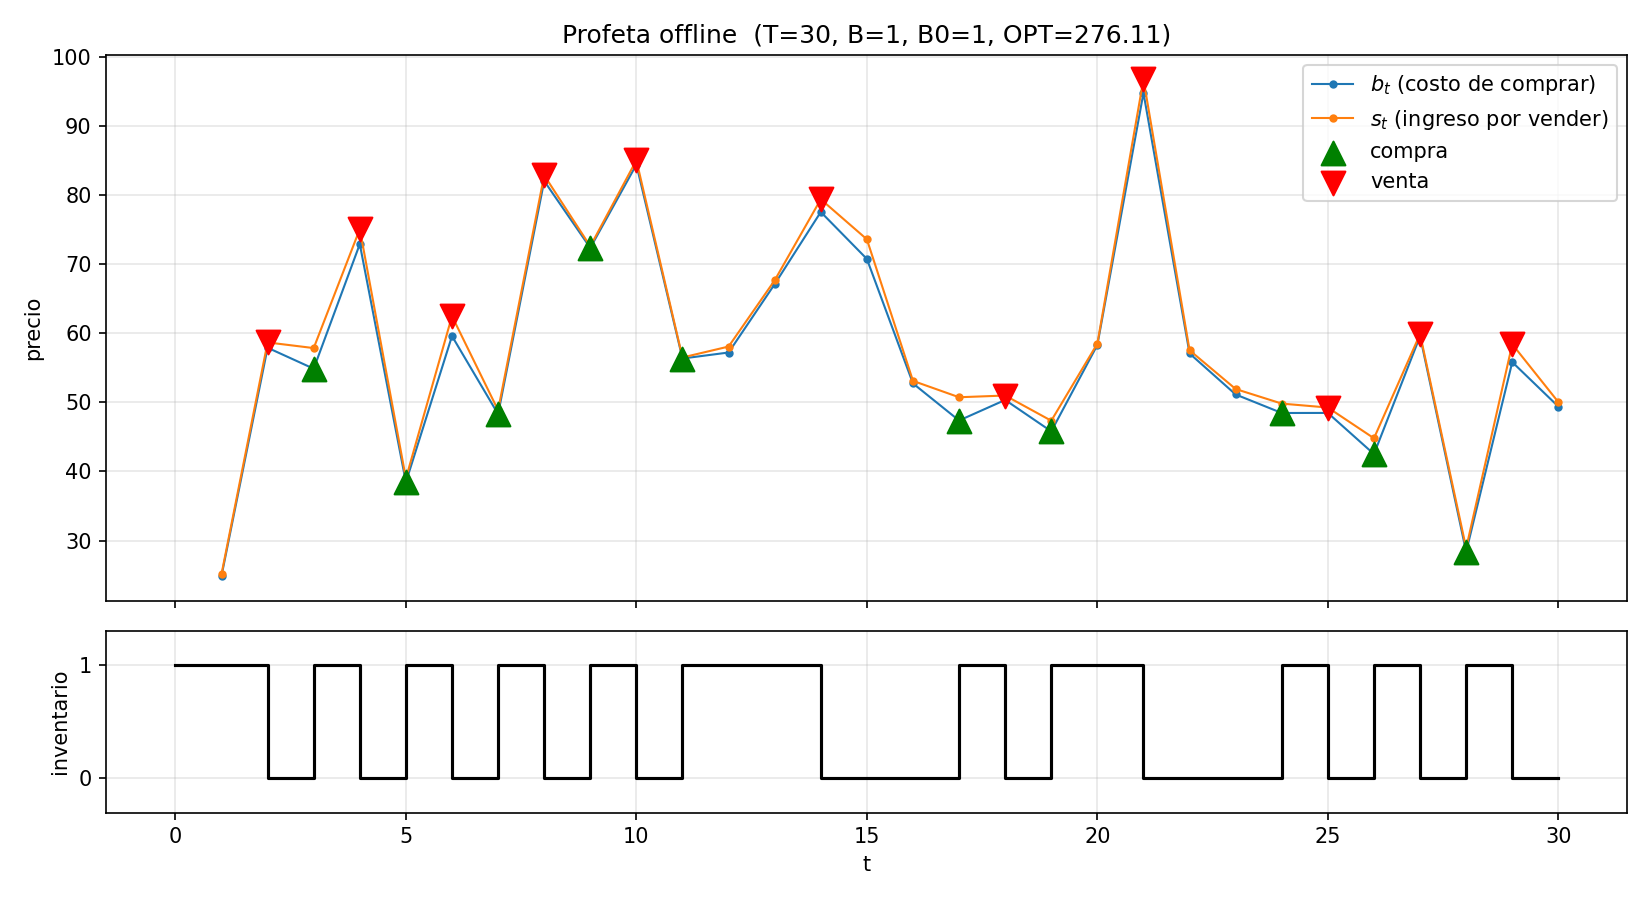
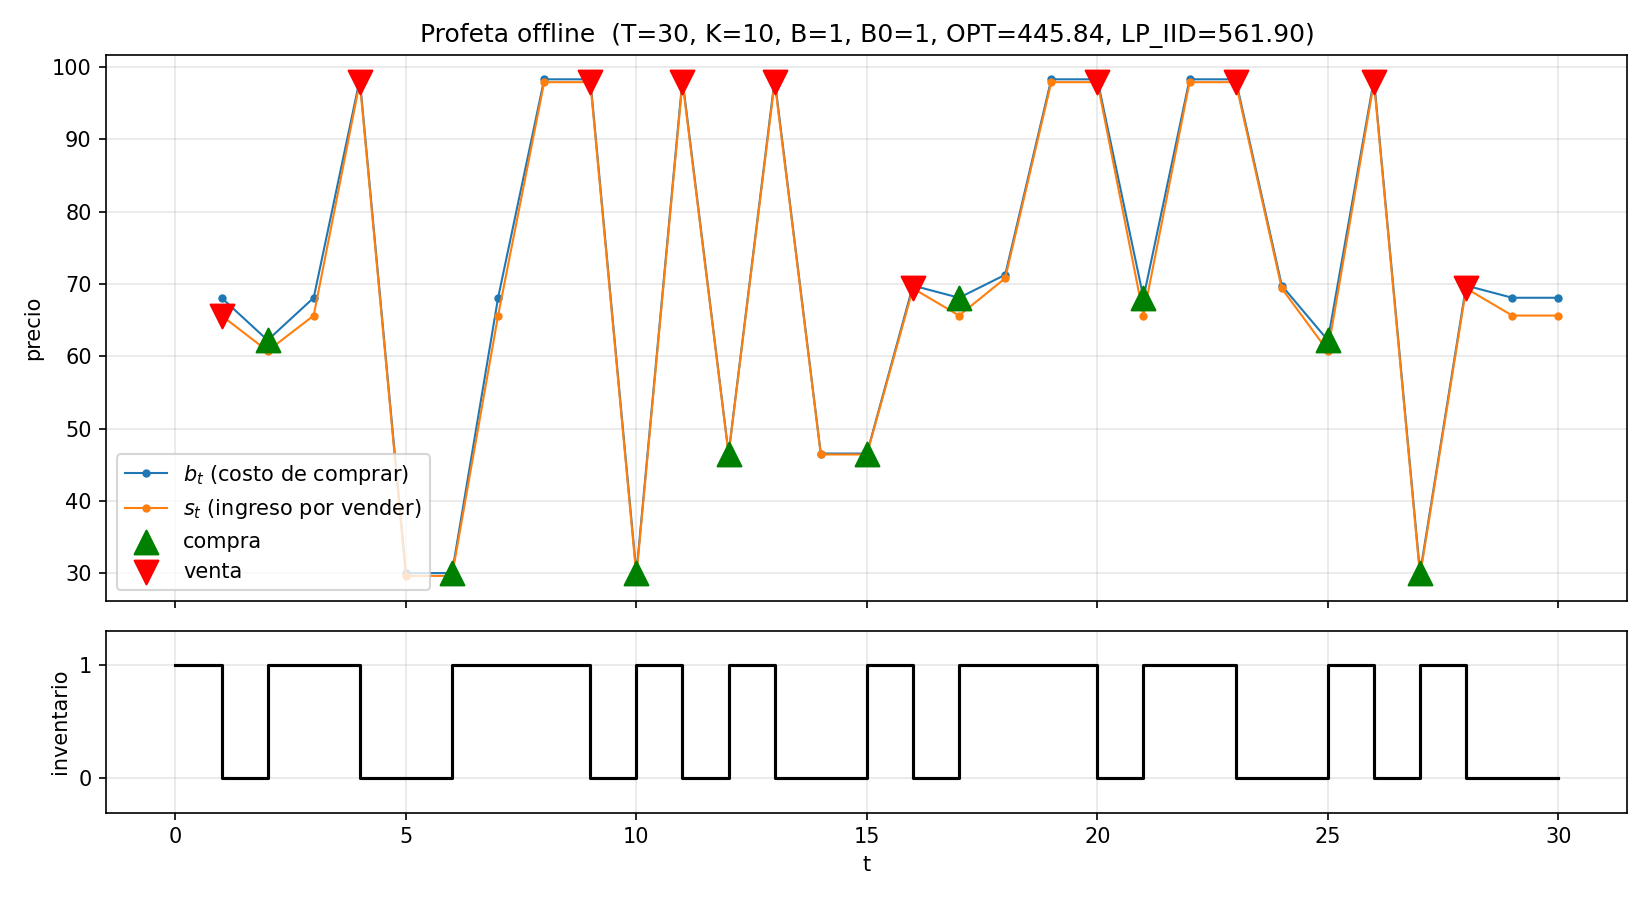
lp iid

diff --git a/lp.py b/lp.py
@@ -1,0 +1,82 @@
+from dataclasses import dataclass
+import numpy as np
+import gurobipy as gp
+from gurobipy import GRB
+
+_env = None
+
+def _get_env():
+    # Un solo Env para no revalidar la licencia (ni imprimir el banner) en cada LP
+    global _env
+    if _env is None:
+        _env = gp.Env(empty=True)
+        _env.setParam('OutputFlag', 0)
+        _env.start()
+    return _env
+
+
+@dataclass
+class LPIIDSolution:
+    value: float            # LP(y*, z*), cota superior de E[OPT offline] (Lema 3.1)
+    y: np.ndarray           # y_k: prob. de vender cuando llega el tipo k
+    z: np.ndarray           # z_k: prob. de comprar cuando llega el tipo k
+    alpha_S: float          # ventas esperadas por paso, ec. (7)
+    alpha_B: float          # compras esperadas por paso, ec. (7)
+    Gamma: float            # ventas esperadas totales = T * alpha_S, ec. (9)
+    final_inventory: float  # B_0 + T * (alpha_B - alpha_S); el paper asume 0, ec. (8)
+
+
+def solve_lp_iid(b, s, p, T, B, B_0):
+    """Resuelve LP_IID (Sección 3.1) para la distribución D = {(b^(k), s^(k)) w.p. p^(k)}."""
+    b, s, p = (np.asarray(v, dtype=float) for v in (b, s, p))
+    K = len(p)
+    can_buy = np.isfinite(b)  # b = inf: el tipo k solo permite vender
+
+    model = gp.Model('lp_iid', env=_get_env())
+    y = model.addVars(K, lb=0.0, name='y')  # vender
+    z = model.addVars(K, lb=0.0, ub=[p[k] if can_buy[k] else 0.0 for k in range(K)], name='z')  # comprar
+
+    model.setObjective(
+        T * gp.quicksum(s[k] * y[k] for k in range(K))
+        - T * gp.quicksum(b[k] * z[k] for k in range(K) if can_buy[k]),
+        GRB.MAXIMIZE)
+
+    model.addConstrs((y[k] + z[k] <= p[k] for k in range(K)), name='prob')  # (5)
+
+    # (6): inventario final esperado en [0, B]. Basta imponerlo en t = T: como B_0 + t*(...)
+    # es lineal en t y B_0 ∈ [0, B], si se cumple en t = 0 y t = T se cumple para todo t.
+    final = B_0 + T * gp.quicksum(z[k] - y[k] for k in range(K))
+    model.addConstr(final >= 0, name='inv_lb')
+    model.addConstr(final <= B, name='inv_ub')
+
+    model.optimize()
+    if model.Status != GRB.OPTIMAL:
+        raise RuntimeError(f'LP_IID no resuelto a optimalidad (status {model.Status})')
+
+    y_val = np.array([y[k].X for k in range(K)])
+    z_val = np.array([z[k].X for k in range(K)])
+    alpha_S, alpha_B = y_val.sum(), z_val.sum()
+    sol = LPIIDSolution(value=model.ObjVal, y=y_val, z=z_val,
+                        alpha_S=alpha_S, alpha_B=alpha_B, Gamma=T * alpha_S,
+                        final_inventory=B_0 + T * (alpha_B - alpha_S))
+    model.dispose()
+    return sol
+
+
+if __name__ == "__main__":
+    from instances import generate_distribution, sample_instance
+    from offline import offline_opt
+
+    T, K, B, B_0, N = 30, 10, 1, 1, 2000
+    rng = np.random.default_rng(0)
+
+    b, s, p = generate_distribution(K, rng=rng)
+    lp = solve_lp_iid(b, s, p, T, B, B_0)
+    print(f"LP_IID = {lp.value:.2f}   alpha_S = {lp.alpha_S:.4f}   alpha_B = {lp.alpha_B:.4f}   "
+          f"Gamma = {lp.Gamma:.2f}   inventario final = {lp.final_inventory:.2e}")
+
+    # Chequeo del Lema 3.1: E[OPT offline] <= LP_IID
+    opts = np.array([offline_opt(*sample_instance(b, s, p, T, rng)[:2], B, B_0)[0] for _ in range(N)])
+    se = opts.std(ddof=1) / np.sqrt(N)
+    print(f"E[OPT offline] = {opts.mean():.2f} ± {1.96 * se:.2f}   (N = {N})")
+    print(f"E[OPT] / LP_IID = {opts.mean() / lp.value:.3f}")

diff --git a/instances.py b/instances.py
@@ -1,23 +1,46 @@
 import numpy as np
 
-def generate_basic_instance(T: int):
+def generate_basic_instance(T: int, spread_scale: float = 0.02):
 
-    # 1. Generar el precio base (ej. el Bid) usando Lognormal
-    b_t = np.random.lognormal(mean=4.0, sigma=0.3, size=T)
+    # 1. Generar el precio medio (mid) usando Lognormal
+    mid_t = np.random.lognormal(mean=4.0, sigma=0.3, size=T)
 
-    # 2. Generar un 'spread' (diferencia) siempre positivo usando una distribución Exponencial
-    # La distribución exponencial es excelente para modelar tiempos de espera o márgenes pequeños >= 0
-    spread_t = np.random.exponential(scale=1.5, size=T)
+    # 2. Generar un half-spread relativo siempre positivo usando una distribución Exponencial
+    # (como fracción del mid, en promedio spread_scale ~ 2%). Se acota para que s_t > 0.
+    half_spread_t = np.minimum(np.random.exponential(scale=spread_scale, size=T), 0.99)
 
-    # 3. El precio de venta (Ask/Sell) es el precio base más el spread
-    s_t = b_t + spread_t
+    # 3. b_t = ask (lo que paga el trader para comprar) y s_t = bid (lo que recibe al vender),
+    # de modo que s_t < b_t: comprar y vender en el mismo instante siempre pierde el spread
+    b_t = mid_t * (1 + half_spread_t)
+    s_t = mid_t * (1 - half_spread_t)
 
-    tuplas_bid_ask = [(round(b, 2), round(s, 2)) for b, s in zip(b_t, s_t)]
+    tuplas_ask_bid = [(round(b, 2), round(s, 2)) for b, s in zip(b_t, s_t)]
 
-    # print("\nPrecios con spread asegurado (b_t < s_t):")
-    # print(tuplas_bid_ask[:5])
+    # print("\nPrecios con spread asegurado (s_t < b_t):")
+    # print(tuplas_ask_bid[:5])
 
-    return tuplas_bid_ask
+    return tuplas_ask_bid
+
+
+def generate_distribution(K: int, spread_scale: float = 0.02, rng=None):
+    """Distribución discreta D con K tipos (b^(k), s^(k)) y probabilidades p^(k),
+    generados con el mismo modelo mid/spread que generate_basic_instance (s^(k) < b^(k))."""
+    rng = np.random.default_rng(rng)
+    mid = rng.lognormal(mean=4.0, sigma=0.3, size=K)
+    half_spread = np.minimum(rng.exponential(scale=spread_scale, size=K), 0.99)
+    b = mid * (1 + half_spread)
+    s = mid * (1 - half_spread)
+    p = rng.dirichlet(np.ones(K))  # p >= 0 y suma 1
+    return b, s, p
+
+
+def sample_instance(b, s, p, T: int, rng=None):
+    """Muestrea T requests i.i.d. de D. Devuelve b_t, s_t y el tipo k_t de cada request
+    (los algoritmos de la Sección 3 deciden según k_t)."""
+    rng = np.random.default_rng(rng)
+    k_t = rng.choice(len(p), size=T, p=p)
+    return np.asarray(b)[k_t], np.asarray(s)[k_t], k_t
+
 
 if __name__ == "__main__":
     generate_basic_instance(T=10)

diff --git a/plot.py b/plot.py
@@ -1,7 +1,8 @@
 import numpy as np
 import matplotlib.pyplot as plt
-from instances import generate_basic_instance
+from instances import generate_distribution, sample_instance
 from offline import offline_opt, recover_path, BUY, SELL
+from lp import solve_lp_iid
 
 
 def plot_instance(b, s, actions, inventory, B, title=None):
@@ -40,11 +41,11 @@ def plot_instance(b, s, actions, inventory, B, title=None):
 
 
 if __name__ == "__main__":
-    T, B, B_0 = 30, 1, 1
+    T, K, B, B_0 = 30, 10, 1, 1
 
-    instance = generate_basic_instance(T=T)
-    b = np.array([b for b, s in instance])
-    s = np.array([s for b, s in instance])
+    b_k, s_k, p_k = generate_distribution(K)
+    b, s, _ = sample_instance(b_k, s_k, p_k, T)
+    lp = solve_lp_iid(b_k, s_k, p_k, T, B, B_0)
 
     opt, V, policy = offline_opt(b, s, B, B_0)
     actions, inventory = recover_path(policy, B_0)
@@ -54,6 +55,6 @@ if __name__ == "__main__":
     assert np.isclose(profit, opt), (profit, opt)
 
     fig = plot_instance(b, s, actions, inventory, B,
-                        title=f"Profeta offline  (T={T}, B={B}, B0={B_0}, OPT={opt:.2f})")
+                        title=f"Profeta offline  (T={T}, K={K}, B={B}, B0={B_0}, OPT={opt:.2f}, LP_IID={lp.value:.2f})")
     fig.savefig("offline_path.png", dpi=150)
     plt.show()

diff --git a/offline.py b/offline.py
@@ -10,7 +10,7 @@ def offline_opt(b, s, B, B_0):
     V = np.full((T + 1, B + 1), -np.inf)
     V[T, :] = 0.0 # Al final no vale nada el activo
 
-    policy = np.zeros((T, B + 1), dtype=int)  # policy[t, x] = acción óptima en (t, x)
+    policy = np.zeros((T, B + 1), dtype=int) # policy[t, x] = acción óptima en (t, x)
 
     for t in range(T - 1, -1, -1):
         for x in range(B + 1):
@@ -22,7 +22,6 @@ def offline_opt(b, s, B, B_0):
             V[t, x] = best
             policy[t, x] = act
     return V[0, B_0], V, policy
-
 
 def recover_path(policy, B_0):
     """Recorre la política hacia adelante desde x = B_0 y devuelve
